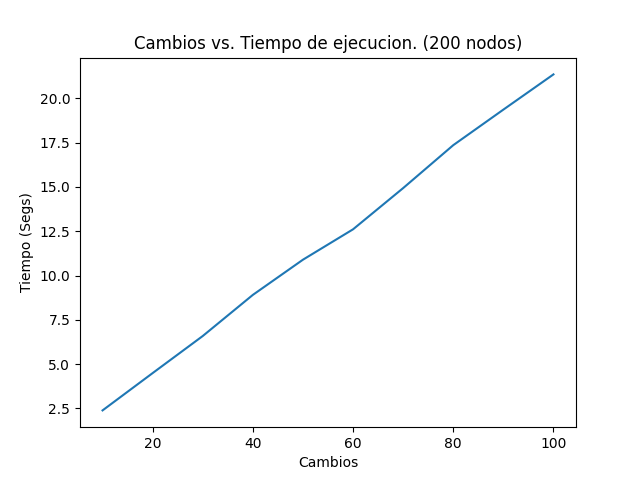
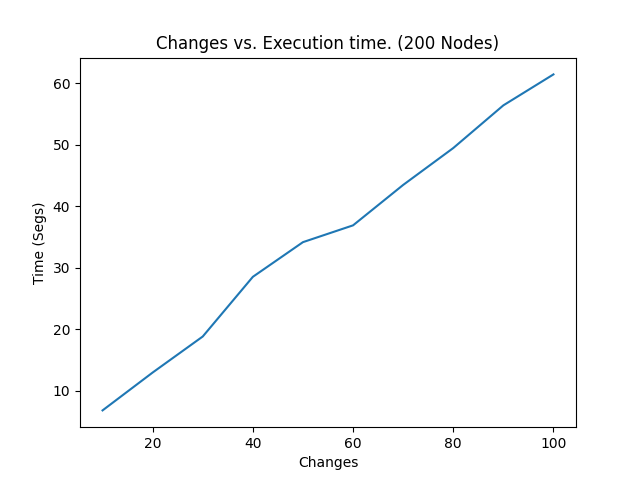
new simulation results

diff --git a/Parte2-Paper/Scripts/plotter.py b/Parte2-Paper/Scripts/plotter.py
@@ -10,36 +10,36 @@ import numpy as np
 
 def nodevit(ccdf : pd.DataFrame):
     nodes = ccdf["# Nodes"].to_numpy()
-    iterations = ccdf["Iteraciones"].to_numpy()
+    iterations = ccdf["Iterations"].to_numpy()
 
     plt.plot(nodes, iterations)
-    plt.title("Nodos vs. Iteraciones. (10 cambios)")
-    plt.xlabel("Nodos")
-    plt.ylabel("Iteraciones")
+    plt.title("Nodes vs. Iterations. (10 Changes)")
+    plt.xlabel("Nodes")
+    plt.ylabel("Iterations")
     plt.savefig('./plots/nodevit.png')
 
 def nodevtime(ccdf : pd.DataFrame):
     nodes = ccdf["# Nodes"].to_numpy()
-    time = ccdf["Tiempo"].to_numpy()
+    time = ccdf["Time"].to_numpy()
 
     plt.plot(nodes, time)
-    plt.title("Nodos vs. Tiempo de ejecucion. (10 cambios)")
+    plt.title("Nodes vs. Execution time. (10 Changes)")
     plt.xlabel("Nodos")
-    plt.ylabel("Tiempo (Segs)")
+    plt.ylabel("Time (Segs)")
     plt.savefig('./plots/nodevtime.png')
 
 def changesvtime(cndf : pd.DataFrame):
-    changes = cndf["# Cambios"].to_numpy()
-    time = cndf["Tiempo"].to_numpy()
+    changes = cndf["# Changes"].to_numpy()
+    time = cndf["Time"].to_numpy()
     plt.plot(changes, time)
-    plt.title("Cambios vs. Tiempo de ejecucion. (200 nodos)")
-    plt.xlabel("Cambios")
-    plt.ylabel("Tiempo (Segs)")
+    plt.title("Changes vs. Execution time. (200 Nodes)")
+    plt.xlabel("Changes")
+    plt.ylabel("Time (Segs)")
     plt.savefig('./plots/changesvtime.png')
 
 def main():
     df = pd.read_csv('Data.csv')
-    ccdf = df[df['# Cambios'] == 10]
+    ccdf = df[df['# Changes'] == 10]
     cndf = df[df['# Nodes'] == 200]
     nodevit(ccdf)
     plt.clf()

diff --git a/Parte2-Paper/Scripts/main.py b/Parte2-Paper/Scripts/main.py
@@ -133,8 +133,8 @@ def simulations() -> None:
     # Runs the simulations
     global config
     config = {"plot": False}
-    graph_sizes = [i for i in range(20, 100, 20)]
-    changes_ids = [i for i in range(10, 30, 10)]
+    graph_sizes = [i for i in range(20, 720, 20)]
+    changes_ids = [i for i in range(10, 110, 10)]
     times_reg = []
     nodes_reg = []
     changes_reg = []
@@ -186,5 +186,5 @@ def main() -> None:
     print(f"Total Iterations: {iterations}")
 
 if __name__ == '__main__':
-    main()
-    # simulations()
+    # main()
+    simulations()
